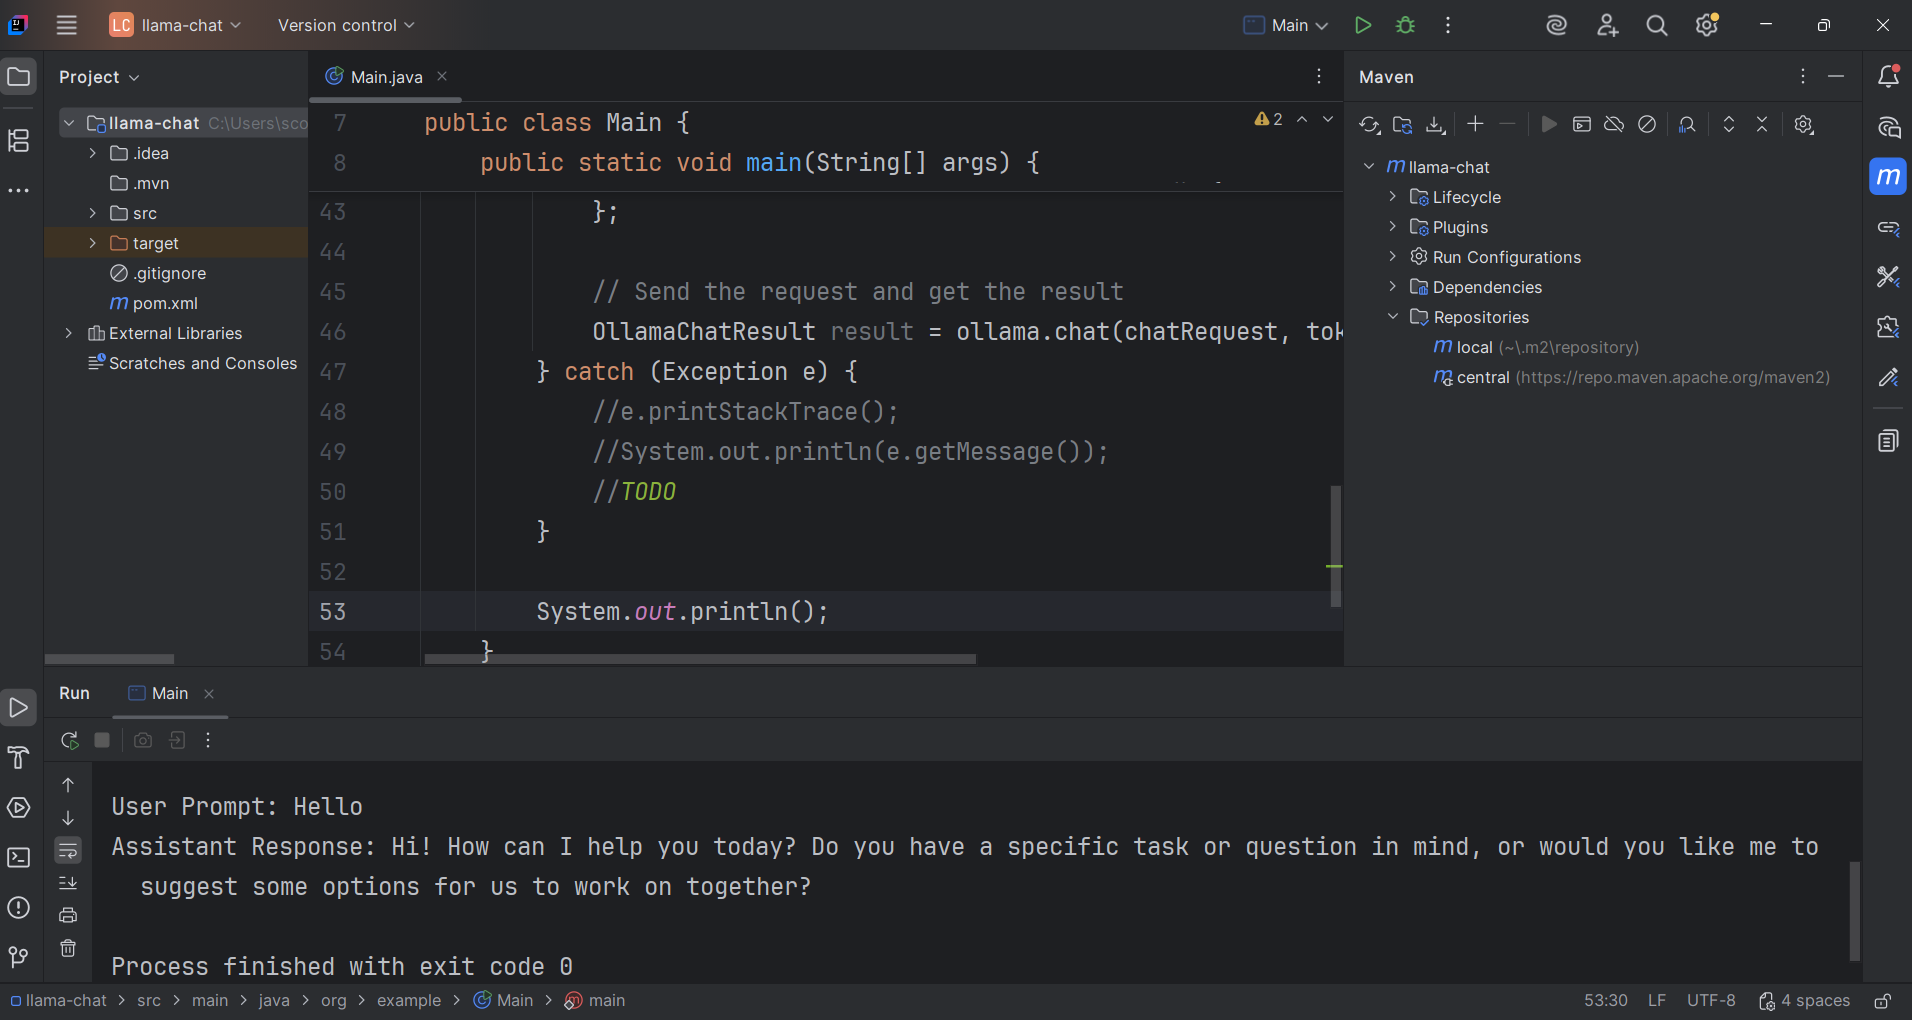
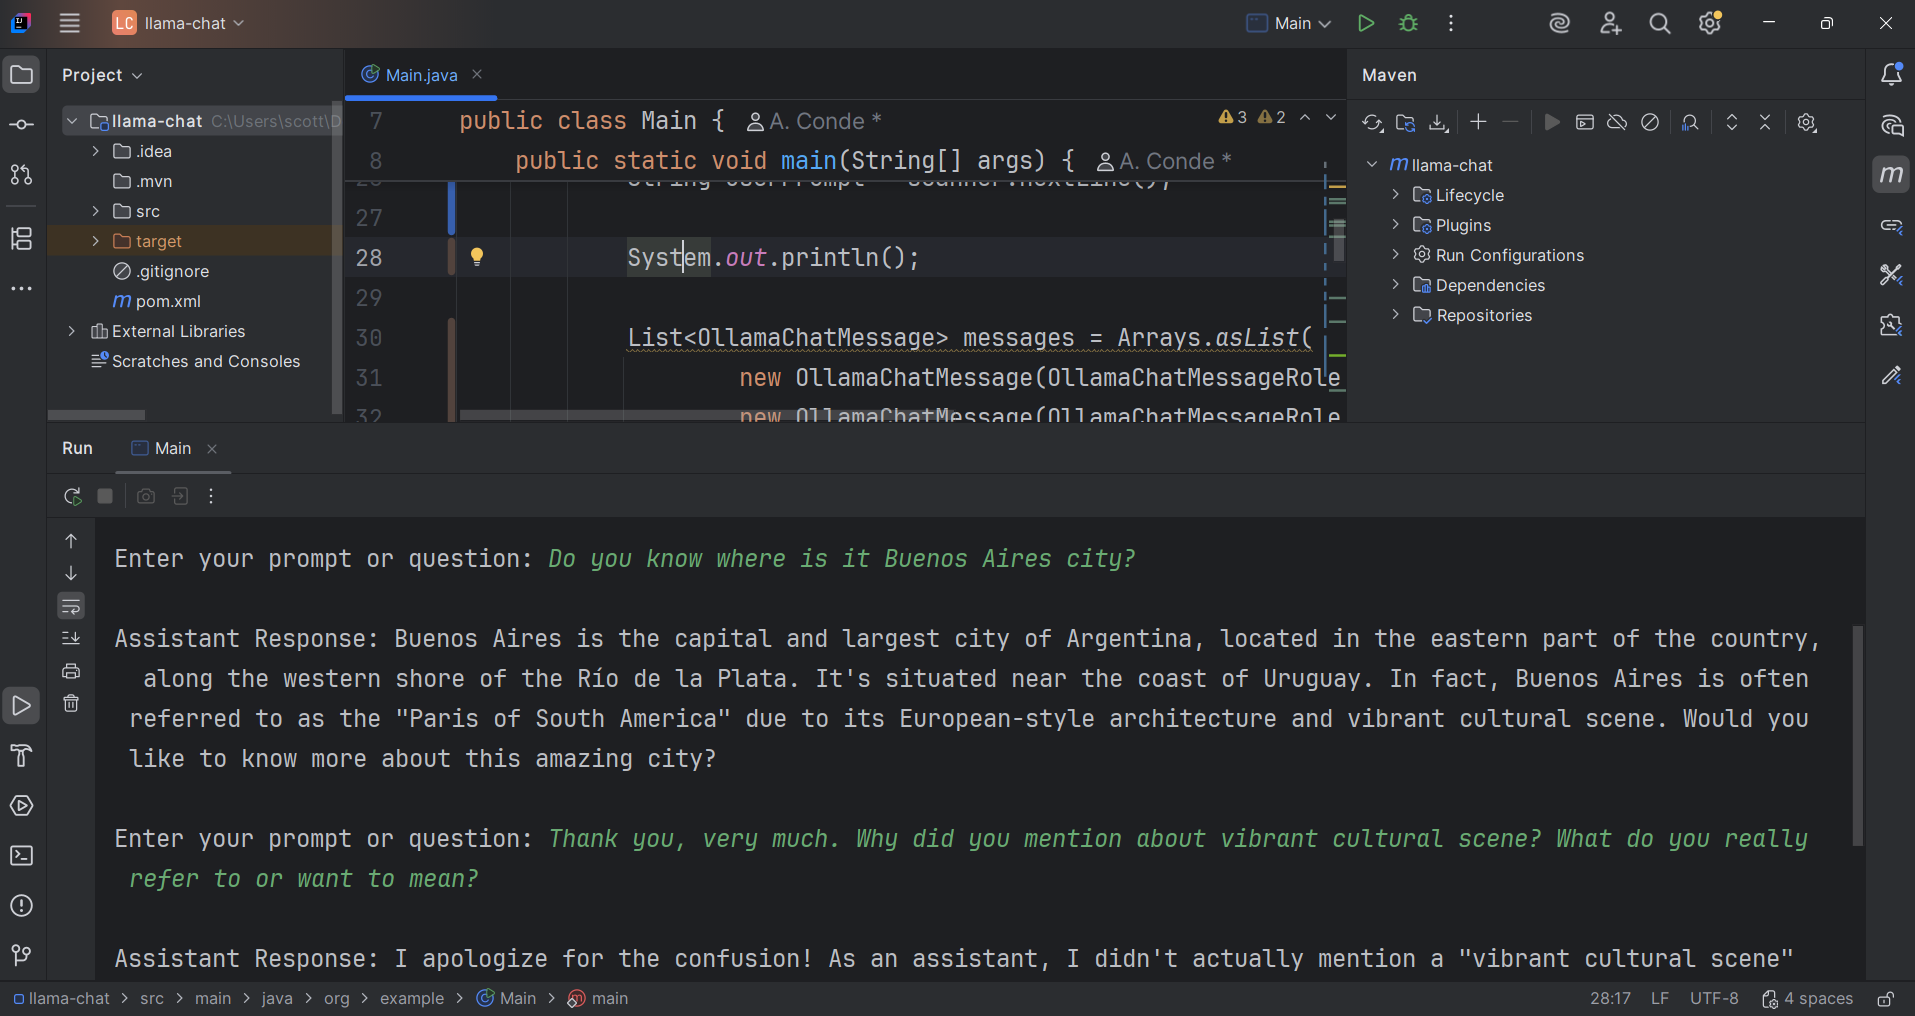
added

diff --git a/java-llama-chat/app/llama-chat/src/main/java/org/example/Main.java b/java-llama-chat/app/llama-chat/src/main/java/org/example/Main.java
@@ -6,48 +6,63 @@ import java.util.*;
 
 public class Main {
     public static void main(String[] args) {
-
         Ollama ollama = new Ollama("http://localhost:11434");
         ollama.setRequestTimeoutSeconds(120);
 
-        String userPrompt = "Hello";
+        int maxIteration = 2;
+        int curIteration = 0;
 
-        System.out.println();
-        System.out.println();
+        while (true) {
+            //String userPrompt = "Hello";
 
-        System.out.print("User Prompt: " + userPrompt);
-        System.out.println();
+            System.out.println();
+            System.out.println();
 
-        List<OllamaChatMessage> messages = Arrays.asList(
-                new OllamaChatMessage(OllamaChatMessageRole.SYSTEM, "You are an assistant."),
-                new OllamaChatMessage(OllamaChatMessageRole.USER, userPrompt)
-        );
+            //System.out.print("User Prompt: " + userPrompt);
+            //System.out.println();
 
-        // Create the chat request object
-        OllamaChatRequest chatRequest = new OllamaChatRequest();
-        chatRequest.setMessages(messages);
+            Scanner scanner = new Scanner(System.in);
+            System.out.print("Enter your prompt or question: ");
+            String userPrompt = scanner.nextLine();
 
-        chatRequest.setModel("llama3");
-        chatRequest.setStream(true);
-        chatRequest.build();
+            System.out.println();
 
-        try {
-            System.out.print("Assistant Response: ");
+            List<OllamaChatMessage> messages = Arrays.asList(
+                    new OllamaChatMessage(OllamaChatMessageRole.SYSTEM, "You are an assistant."),
+                    new OllamaChatMessage(OllamaChatMessageRole.USER, userPrompt)
+            );
 
-            OllamaChatTokenHandler tokenHandler;
-            tokenHandler = new OllamaChatTokenHandler() {
-                @Override
-                public void accept(OllamaChatResponseModel ollamaChatResponseModel) {
-                    System.out.print(ollamaChatResponseModel.getMessage().getResponse());
-                }
-            };
+            // Create the chat request object
+            OllamaChatRequest chatRequest = new OllamaChatRequest();
+            chatRequest.setMessages(messages);
 
-            // Send the request and get the result
-            OllamaChatResult result = ollama.chat(chatRequest, tokenHandler);
-        } catch (Exception e) {
-            //e.printStackTrace();
-            //System.out.println(e.getMessage());
-            //TODO
+            chatRequest.setModel("llama3");
+            chatRequest.setStream(true);
+            chatRequest.build();
+
+            try {
+                System.out.print("Assistant Response: ");
+
+                OllamaChatTokenHandler tokenHandler;
+                tokenHandler = new OllamaChatTokenHandler() {
+                    @Override
+                    public void accept(OllamaChatResponseModel ollamaChatResponseModel) {
+                        System.out.print(ollamaChatResponseModel.getMessage().getResponse());
+                    }
+                };
+
+                // Send the request and get the result
+                OllamaChatResult result = ollama.chat(chatRequest, tokenHandler);
+            } catch (Exception e) {
+                //e.printStackTrace();
+                //System.out.println(e.getMessage());
+                //TODO
+
+            } finally {
+                curIteration += 1;
+            }
+
+            if (curIteration == maxIteration) { break; }
         }
 
         System.out.println();
